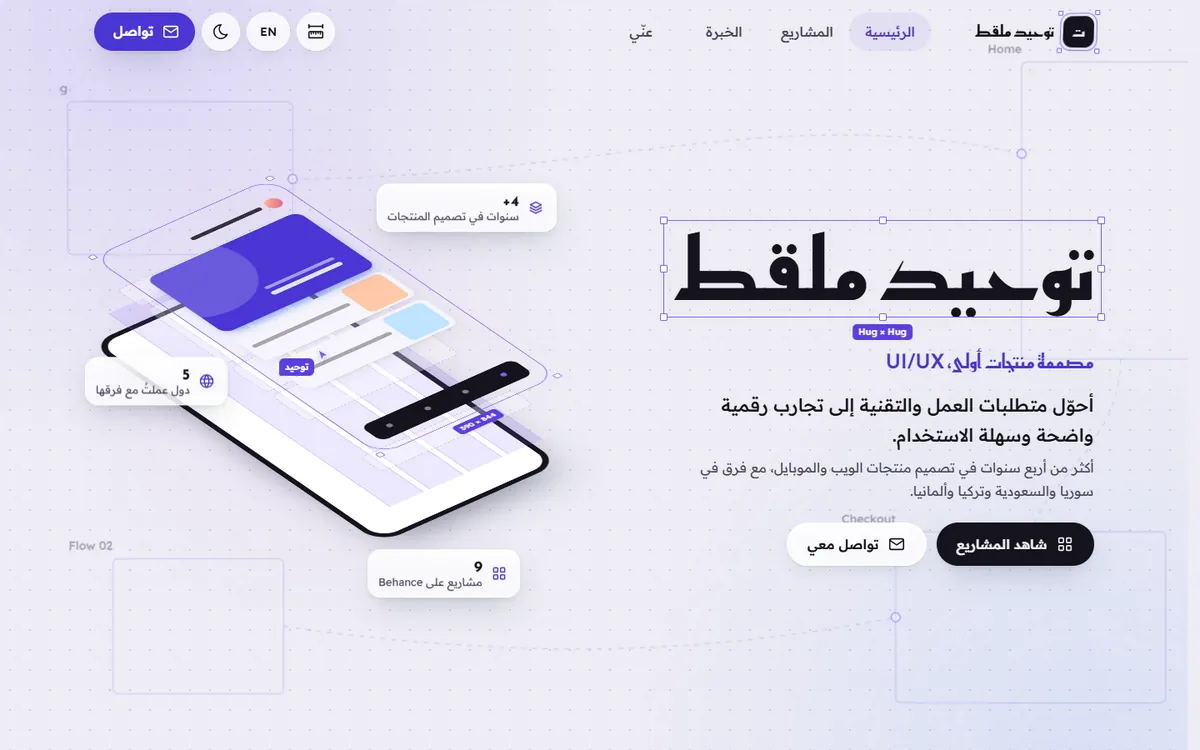
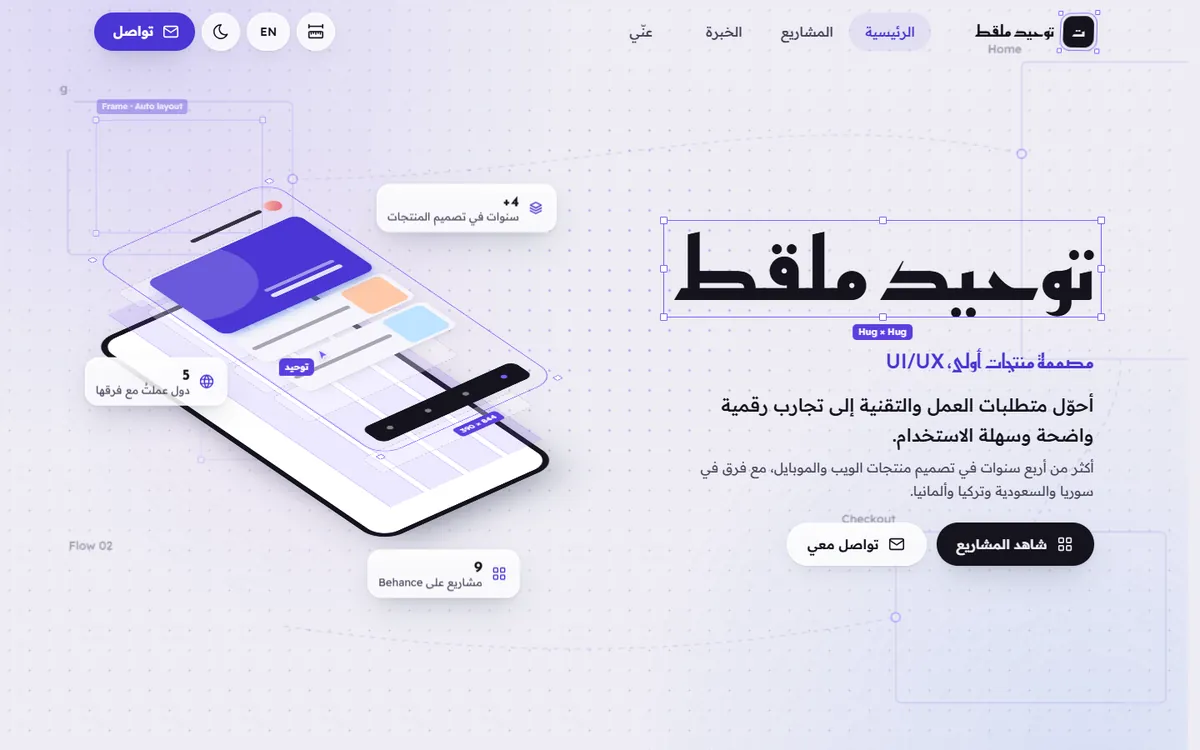
showcase: Tawheed Malkat's site after its mobile rework
Fresh screenshots of the live site, and the description now matches it:
a swipe deck, a page per project with every screen, a canvas that keeps moving.

diff --git a/showcase.html b/showcase.html
@@ -654,8 +654,8 @@ else if(L==='ar'&&en){location.replace(p==='/en'?'/':(p.slice(3)||'/'));}}catch(
     <p class="card__meta"><span>أفراد</span><span>2026</span></p>
     <h3 class="card__title">توحيد ملقط</h3>
     <p class="show__role">مصممة منتجات UI/UX</p>
-    <dl class="card__body"><dt>الفكرة</dt><dd>البورتفوليو ملف تصميم مفتوح: كانفاس منقّط، واسمها طبقة نص محدّدة، وكاميرا تتنقّل بين مشاريعها مع التمرير.</dd></dl>
-    <ul class="card__list"><li>رحلة كاميرا بين مشاريعها يقودها التمرير</li><li>شريط ينقلك من أول ملاحظة بحث حتى النموذج التفاعلي</li><li>لوحة مشاريع تُسحب وتُكبَّر</li></ul>
+    <dl class="card__body"><dt>الفكرة</dt><dd>البورتفوليو ملف تصميم مفتوح لا يتوقّف عن العمل: تحديدات تتحرّك، ومؤشّرات تتعاون، وكل مشروع يفرد شاشاته كطبقات.</dd></dl>
+    <ul class="card__list"><li>مجموعة مشاريع تُسحب واحداً تلو الآخر، وكل بطاقة تفرد شاشاتها</li><li>صفحة لكل مشروع، فيها دراسة الحالة كاملة شاشةً شاشة</li><li>لوحة مشاريع تُسحب وتُكبَّر</li></ul>
     <ul class="badges"><li class="badge">Arabic + English</li><li class="badge">3D</li><li class="badge">RTL</li><li class="badge">Dark mode</li></ul>
     <div class="card__foot"><a class="btn btn--ghost" href="https://nouraldeentofi.github.io/tawheed-malkat/" target="_blank" rel="noopener noreferrer">زيارة الموقع<span class="visually-hidden"> (يفتح في تبويب جديد)</span></a></div>
   </div>

diff --git a/en/showcase.html b/en/showcase.html
@@ -653,8 +653,8 @@ else if(L==='ar'&&en){location.replace(p==='/en'?'/':(p.slice(3)||'/'));}}catch(
     <p class="card__meta"><span>People</span><span>2026</span></p>
     <h3 class="card__title">Tawheed Malkat</h3>
     <p class="show__role">Product designer (UI/UX)</p>
-    <dl class="card__body"><dt>The idea</dt><dd>The portfolio as an open design file: a dotted canvas, her name as a selected text layer, and a camera that flies through her projects as you scroll.</dd></dl>
-    <ul class="card__list"><li>A scroll-driven camera journey through her projects</li><li>A slider from first research note to clickable prototype</li><li>A project board you can drag and zoom</li></ul>
+    <dl class="card__body"><dt>The idea</dt><dd>The portfolio as an open design file that never stops working: selections move, cursors collaborate, and every project fans out its screens like layers.</dd></dl>
+    <ul class="card__list"><li>A deck of projects to swipe through, each card fanning its own screens</li><li>A page for every project, with its whole case study screen by screen</li><li>A project board you can drag and zoom</li></ul>
     <ul class="badges"><li class="badge">Arabic + English</li><li class="badge">3D</li><li class="badge">RTL</li><li class="badge">Dark mode</li></ul>
     <div class="card__foot"><a class="btn btn--ghost" href="https://nouraldeentofi.github.io/tawheed-malkat/" target="_blank" rel="noopener noreferrer">Visit the site<span class="visually-hidden"> (opens in a new tab)</span></a></div>
   </div>
